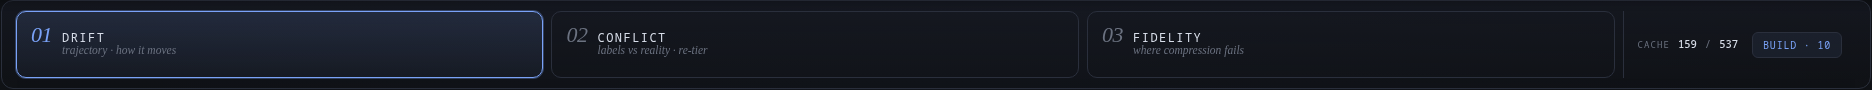
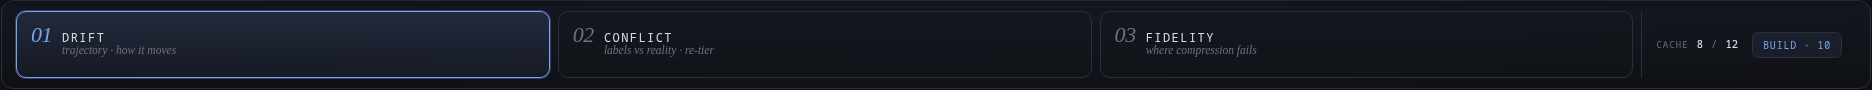
docs(img): regenerate screenshots on synthetic demo substrate
All 9 shots re-captured against a synthetic 12-pair demo dataset
generated by /tmp/wc-demo-gen.py (~/work/weighted-compact-demo/) —
generic dev-topic pairs in English (Python, FastAPI, git, ollama,
playwright, common gotchas). No personal session content. Tool was
run with WC_WORKDIR=… override to point at the demo substrate; main
substrate untouched.

Demo dataset includes 8 labelled pairs (mix of KEEP/MAYBE/SKIP/
FALSE+) and a 4-pair fidelity cache showing the conflict-mode retag
arrows (pair #3 + pair #7 are SKIP-tagged but the fidelity test says
they should be KEEP). Drift trajectories engineered to show varied
sparkline shapes (rising, falling, oscillating).

Screenshot pipeline tweaks:
- shot_selected_pair_fidelity: pick evaluated pair via in-page JS
  query instead of detachable element handles
- _click_first_row_and_load_iters: reset localStorage deltas-mode
  to drift, click via data-pair selector to avoid stale handles
- timeout on d-pair-content wait bumped 10→15s

diff --git a/docs/img/_take_screenshots.py b/docs/img/_take_screenshots.py
@@ -51,12 +51,16 @@ def shot_drift_full(page: Page) -> None:
 
 def _click_first_row_and_load_iters(page: Page) -> None:
     """Helper: select first row, wait for selection, fire iters 2-4 + finale."""
+    # Ensure drift mode (clear any persisted localStorage mode from prior runs)
+    page.evaluate("localStorage.removeItem('deltas-mode'); window.deltasState && setDeltasMode && setDeltasMode('drift');")
+    page.wait_for_timeout(300)
     page.wait_for_selector(".d-row[data-pair]")
-    rows = page.query_selector_all(".d-row[data-pair]")
-    if not rows:
+    # Use JS-direct click to avoid stale handles
+    first_pid = page.evaluate("() => { const r = document.querySelector('.d-row[data-pair]'); return r ? parseInt(r.dataset.pair) : null; }")
+    if first_pid is None:
         raise RuntimeError("no rows to click")
-    rows[0].click()
-    page.wait_for_selector("#d-cube-pair .d-pair-content", timeout=10000)
+    page.click(f'.d-row[data-pair="{first_pid}"]')
+    page.wait_for_selector("#d-cube-pair .d-pair-content", timeout=15000)
     # Wait for iter buttons to be enabled (renderNarrEmptyOrAuto runs async)
     page.wait_for_function(
         "() => { const b = document.querySelector('#d-narrative-iters .iter-btn[data-iter=\"2\"]'); return b && !b.disabled; }",
@@ -130,13 +134,22 @@ def shot_selected_pair_fidelity(page: Page) -> None:
     goto_deltas(page)
     page.click('.d-mode-btn[data-mode="conflict"]')
     page.wait_for_selector(".d-row[data-pair]", timeout=15000)
-    # Pick first evaluated row (not 'not evaluated' placeholder)
-    rows = page.query_selector_all(".d-row[data-pair]")
-    for row in rows:
-        text = row.inner_text()
-        if "not evaluated" not in text.lower():
-            row.click()
-            break
+    page.wait_for_timeout(800)  # let mode switch settle
+    # Find pair_idx of first evaluated row via JS (no handle to detach)
+    evaluated_pid = page.evaluate("""
+        () => {
+            const rows = document.querySelectorAll('.d-row[data-pair]');
+            for (const r of rows) {
+                if (!r.innerText.toLowerCase().includes('not evaluated')) {
+                    return parseInt(r.dataset.pair);
+                }
+            }
+            return null;
+        }
+    """)
+    if evaluated_pid is None:
+        raise RuntimeError("no evaluated pair found in conflict mode")
+    page.click(f'.d-row[data-pair="{evaluated_pid}"]')
     page.wait_for_selector("#d-cube-pair .d-pair-content", timeout=10000)
     page.wait_for_timeout(800)
     pair = page.query_selector("#d-cube-pair")
